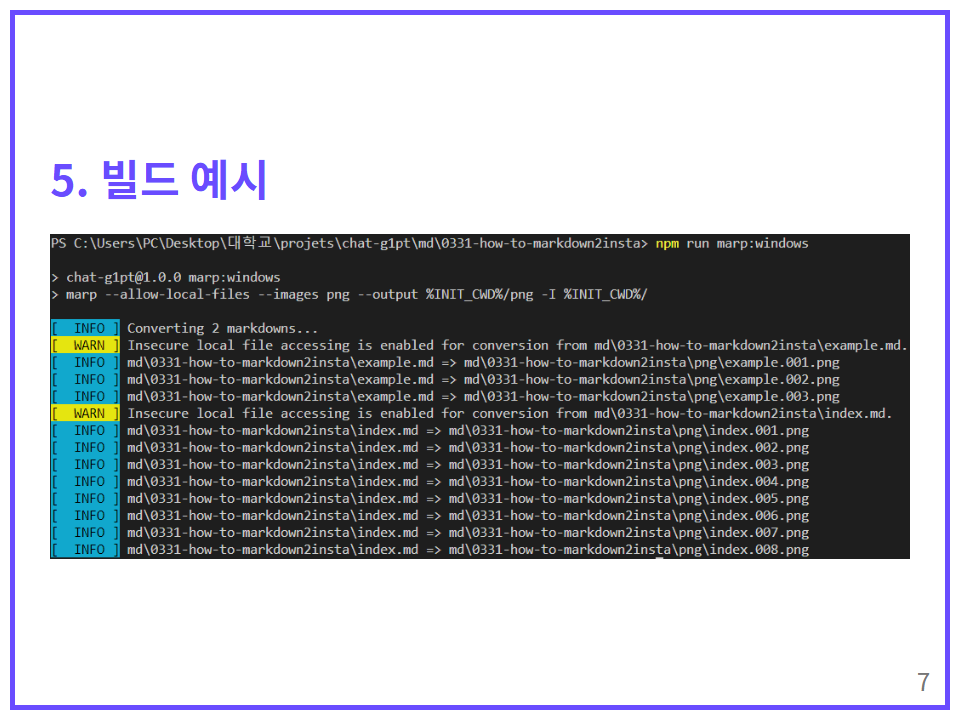
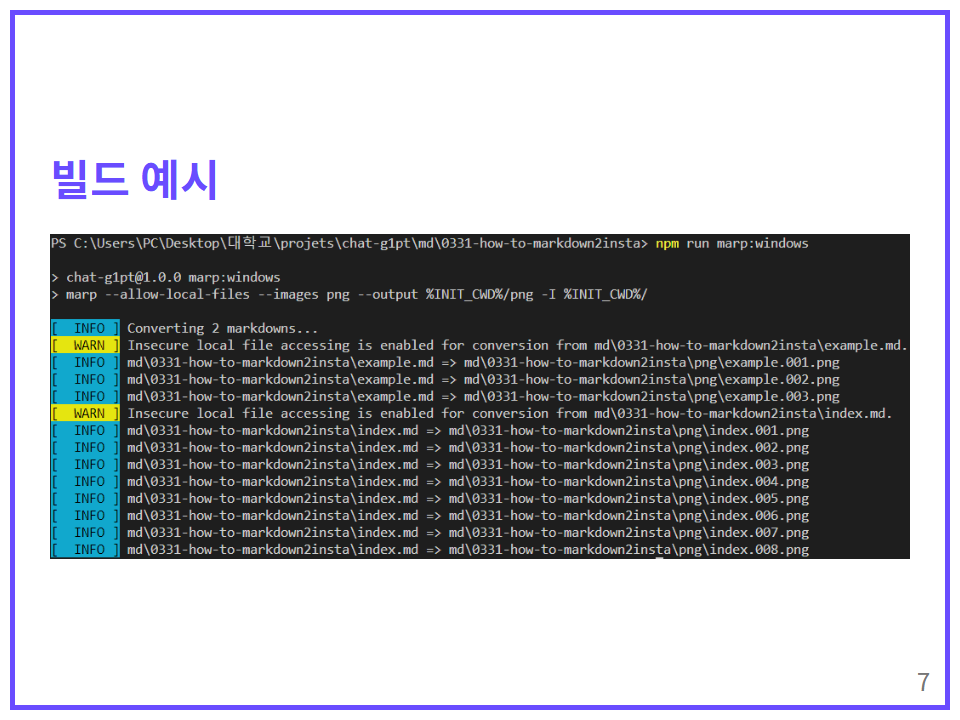
update 0331 post

Changed region(s): [[0.0312, 0.2139, 0.2812, 0.275]]

diff --git a/md/0331-how-to-markdown2insta/index.md b/md/0331-how-to-markdown2insta/index.md
@@ -148,7 +148,7 @@ https:// github.com/ **raipen/chat-g1pt**
    * 명령어를 실행한 디렉토리의 모든 md 파일을 png로 변환
 
 ---
-# 5. 빌드 예시
+# 빌드 예시
 ![](./build.png)
 
 ---
